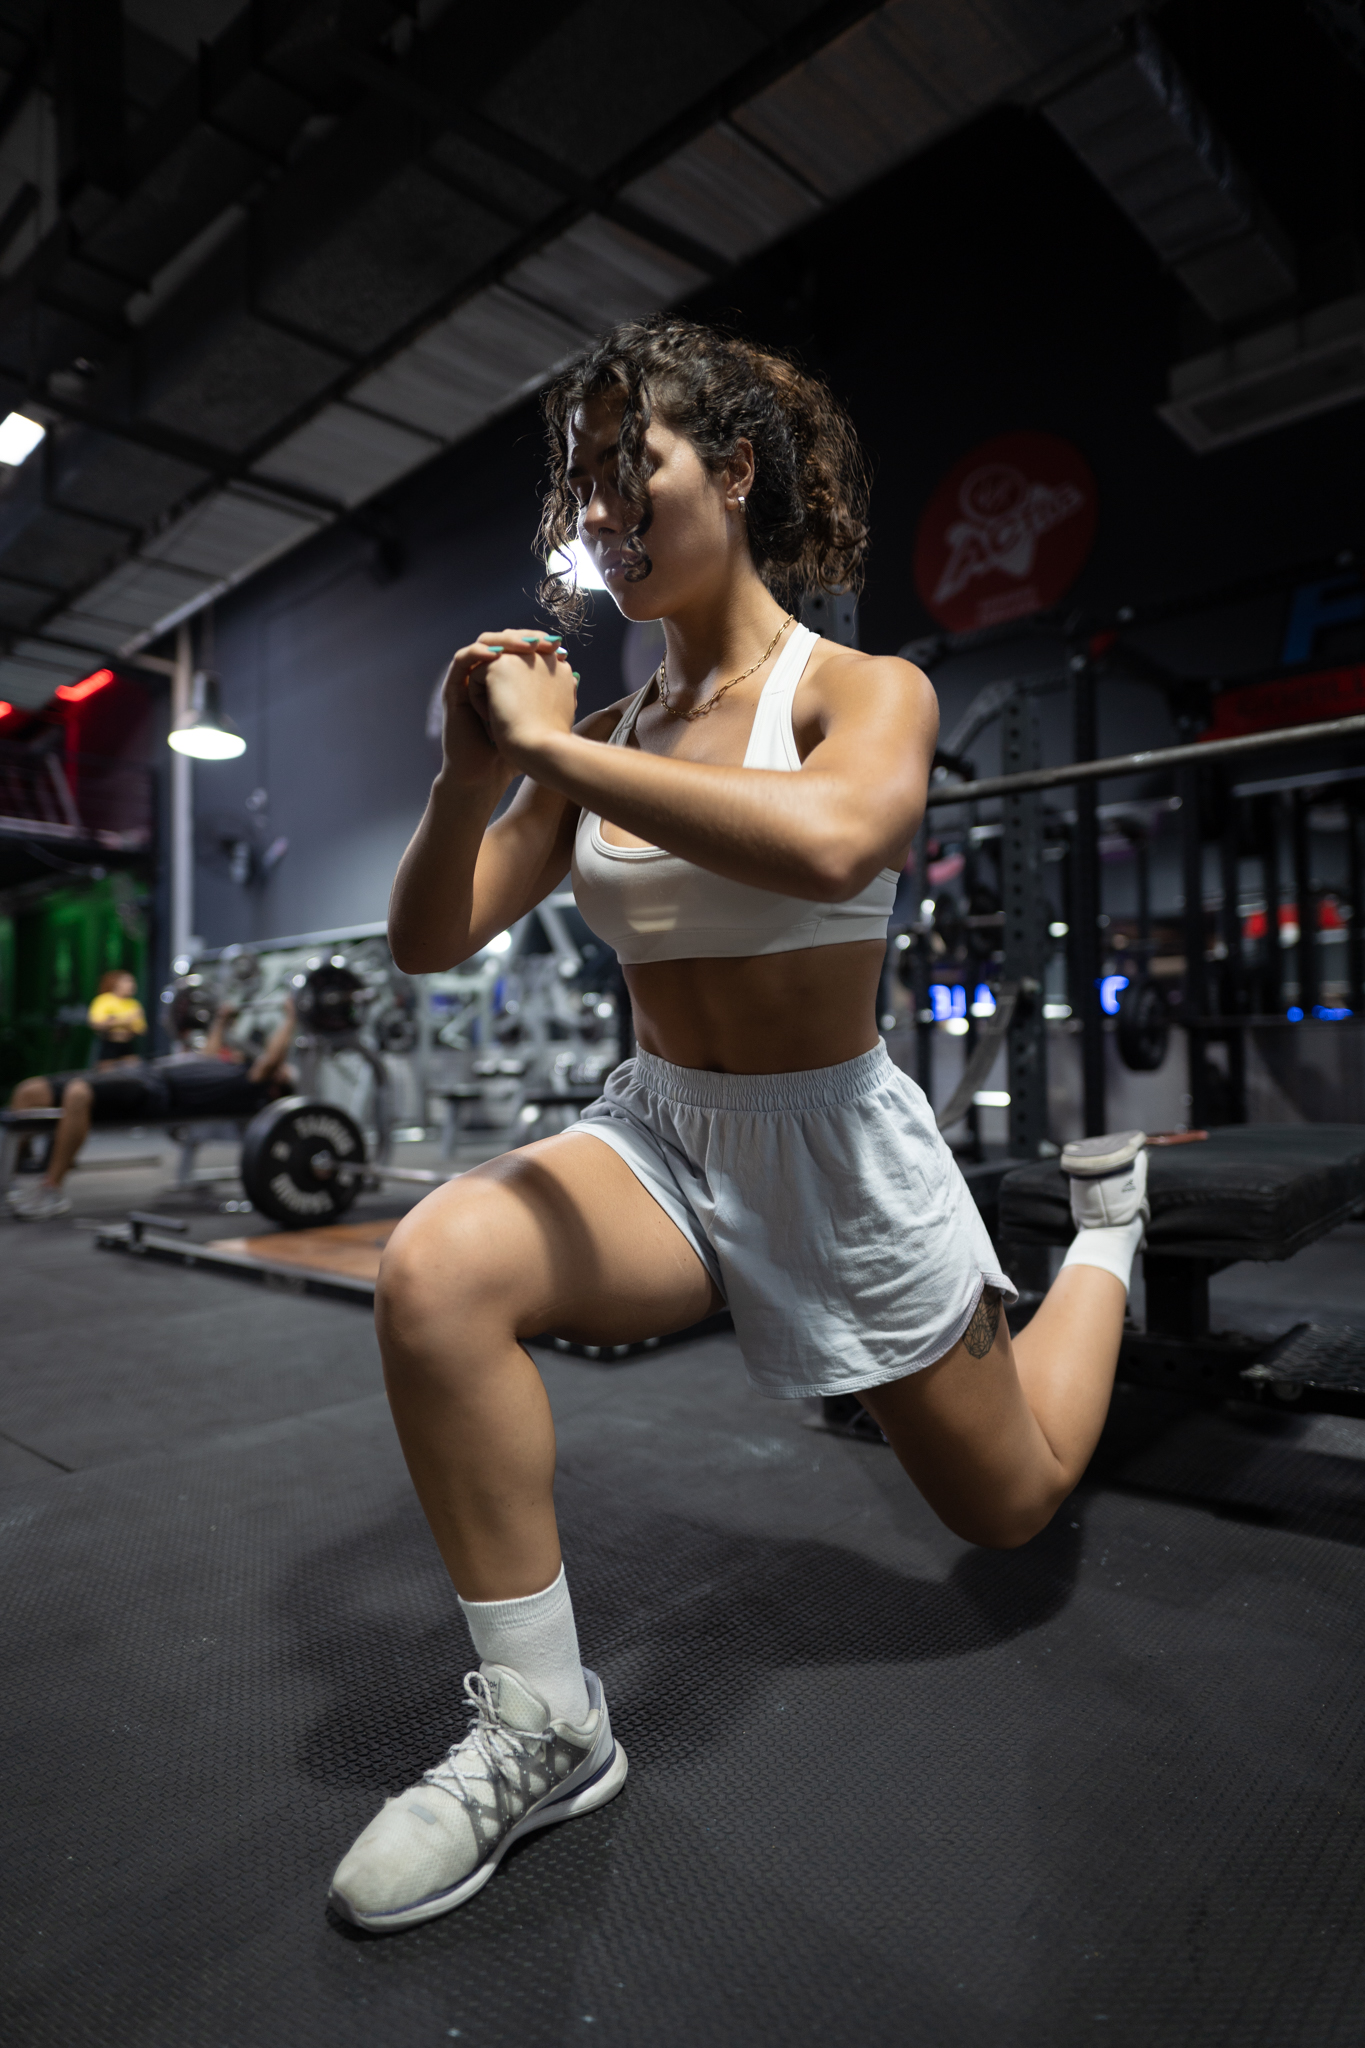
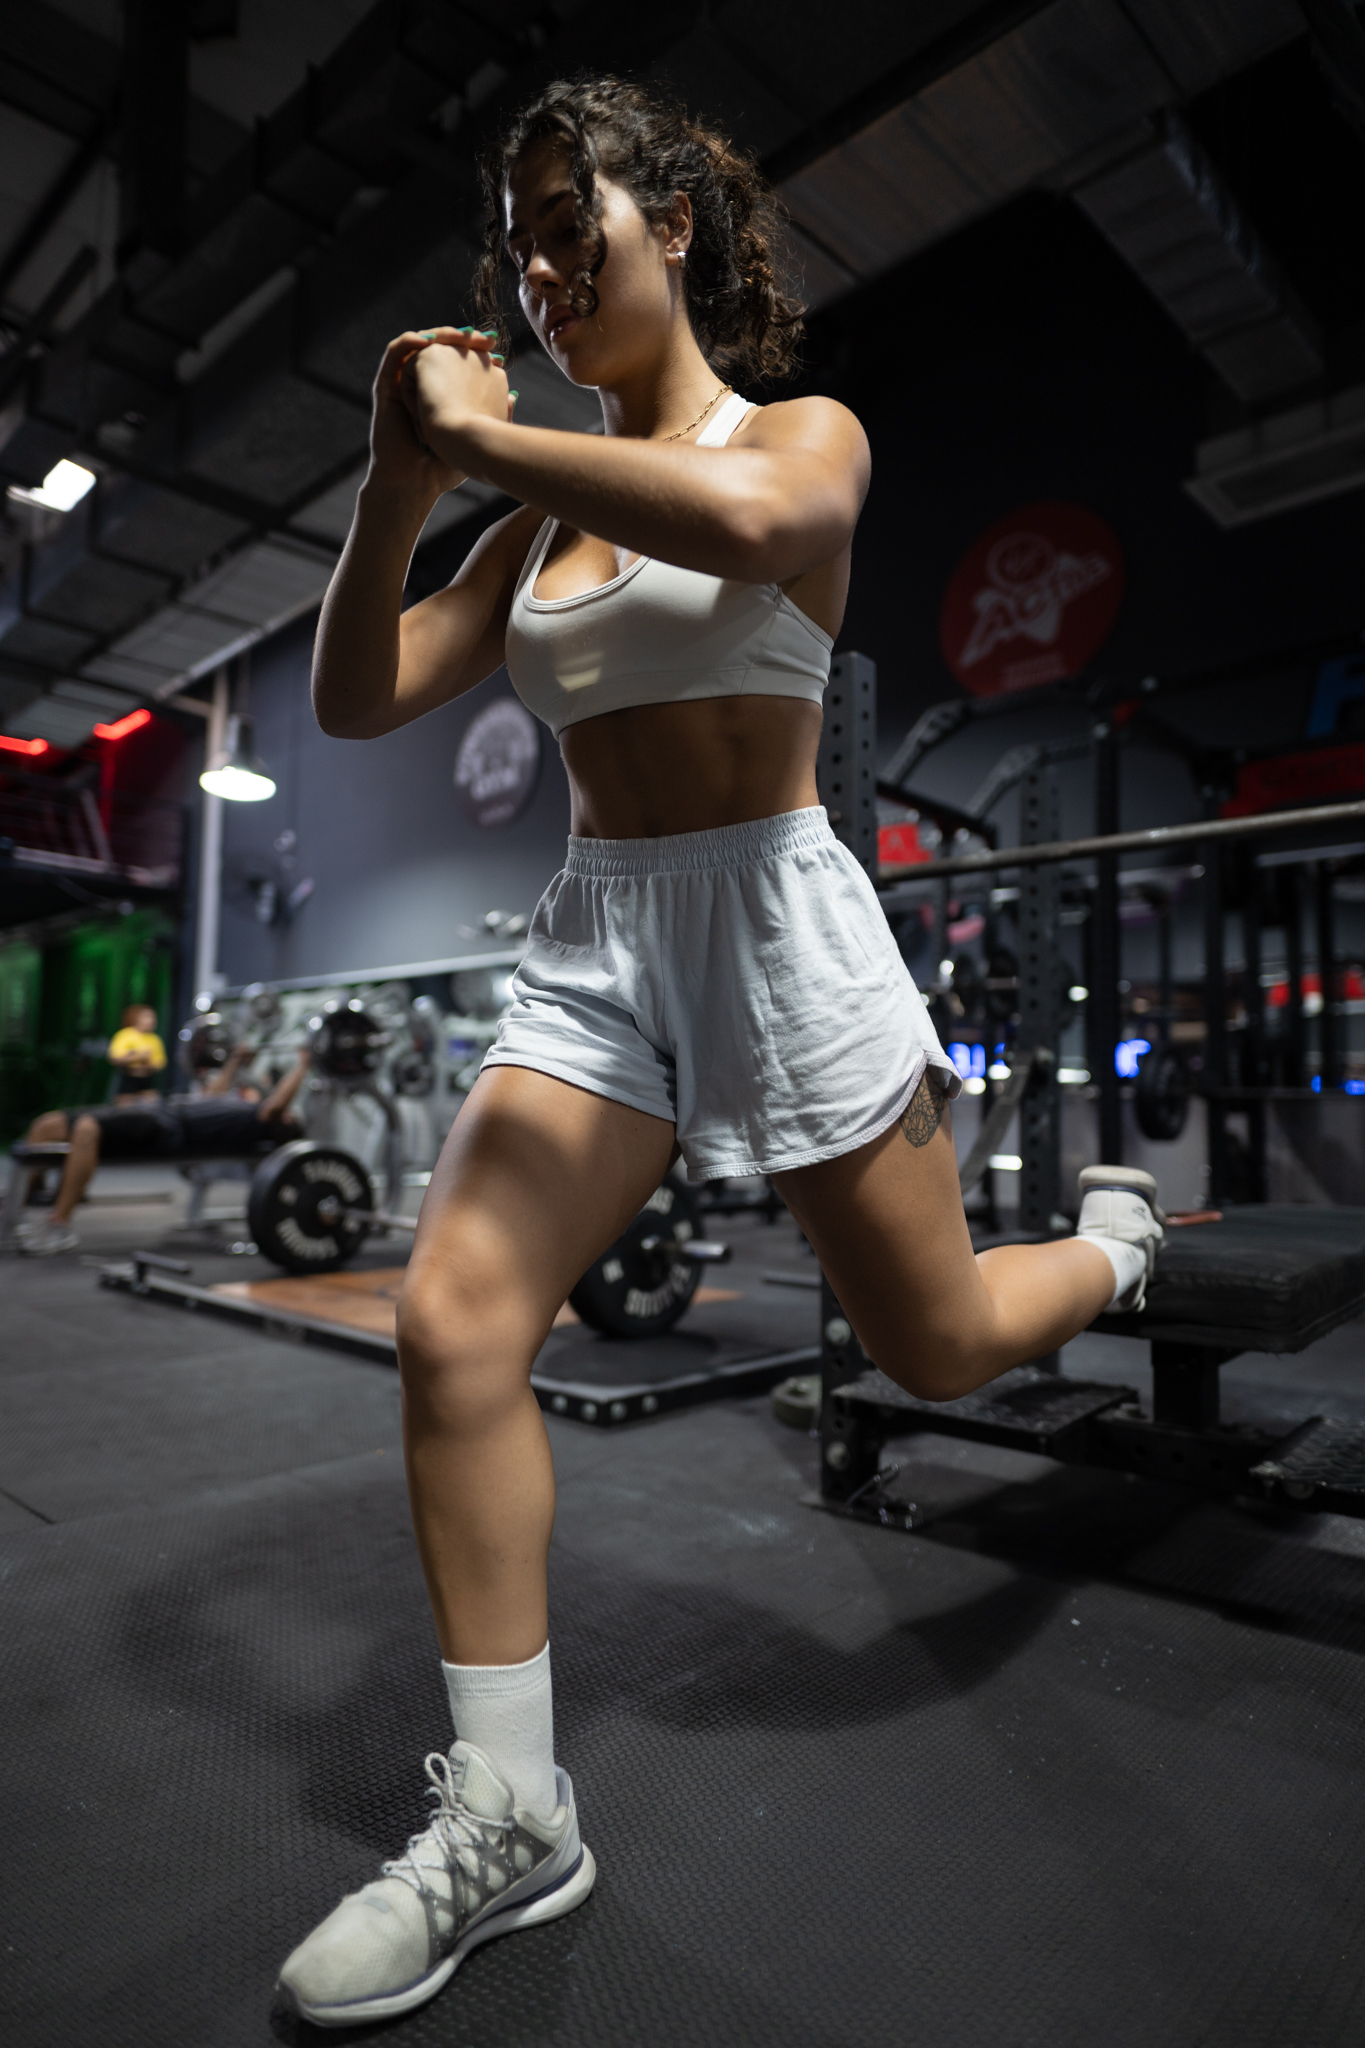
mobility done

diff --git a/src/components/exersize/exercise.jsx b/src/components/exersize/exercise.jsx
@@ -1,15 +1,15 @@
 import React from "react"
 import './exercise.scss'
 // import image1 from "../../images/exercise-1.jpg"
-import image1 from "../../images/exr-6.jpg"
+import image1 from "../../images/mob1.jpg"
 // import image2 from "../../images/exercise-2.jpg"
-import image2 from "../../images/exr-4.jpg"
+import image2 from "../../images/mob2.jpg"
 // import image3 from "../../images/exercise-3.jpg"
-import image3 from "../../images/exr-3.jpg"
+import image3 from "../../images/mob3.jpg"
 // import image4 from "../../images/exercise-4.jpg"
-import image4 from "../../images/exr-2.jpg"
+import image4 from "../../images/mob5.jpg"
 // import image5 from "../../images/exercise-5.jpg"
-import image5 from "../../images/exr-5.jpg"
+import image5 from "../../images/mob4.jpg"
 import AnchorLink from "react-anchor-link-smooth-scroll-v2"
 import { BsArrowDownCircleFill } from "react-icons/bs"
 
@@ -17,8 +17,10 @@ function exercise() {
 	return (
 		<div className="exercise" id="exercise">
 			<div className="exercise-text">
-				<h1>recovery sport.</h1>
-				<p>Rehabilitation sports serve both young and old to restore health. Be it back pain, shoulder problems, hip problems, post surgery, accident/injury, etc.</p>
+				{/* <h1>recovery sport.</h1> */}
+				<h1>STRENGTH</h1>
+				{/* <p>Rehabilitation sports serve both young and old to restore health. Be it back pain, shoulder problems, hip problems, post surgery, accident/injury, etc.</p> */}
+				<p>Mobility</p>
 			</div>
 
 			<div className="exercise-images">

diff --git a/src/components/philosophie/Philosophie.scss b/src/components/philosophie/Philosophie.scss
@@ -56,28 +56,28 @@
 		.image-container{
 			gap: 15px;
 			.foto{
-				height: 550px;
+				height: 600px;
 			}
 		}
 	}
 	@media (min-width:600px) {
 		.image-container{
 			.foto{
-				height: 600px;
+				height: 650px;
 			}
 		}
 	}
 	@media (min-width:700px) {
 		.image-container{
 			.foto{
-				height: 650px;
+				height: 750px;
 			}
 		}
 	}
 	@media (min-width:800px) {
 		.image-container{
 			.foto{
-				height: 750px;
+				height: 850px;
 			}
 		}
 	}
@@ -85,7 +85,8 @@
 		.image-container{
 			gap: 20px;
 			.foto{
-				flex: 1 1 32%;
+				height: 750px;
+				flex: 1 1 31%;
 			}
 		}
 	}

diff --git a/src/components/exersize/exercise.scss b/src/components/exersize/exercise.scss
@@ -17,14 +17,14 @@
 			text-align: left;
 			img{
 				width: 100%;
-				max-height: 800px;
+				max-height: 950px;
 				object-fit: cover;
 				display: block;
 				padding: 10px 0;
 			}
 		}
 		.exercise-images-small{
-			max-height: 800px;
+			max-height: 950px;
 			display: flex;
 			.box1{
 				width: 50%;
